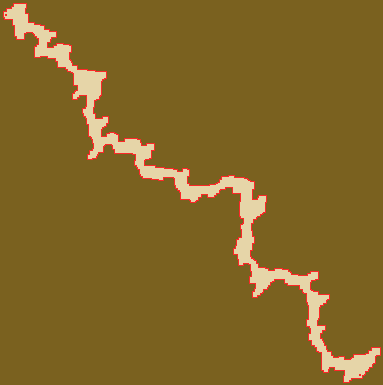
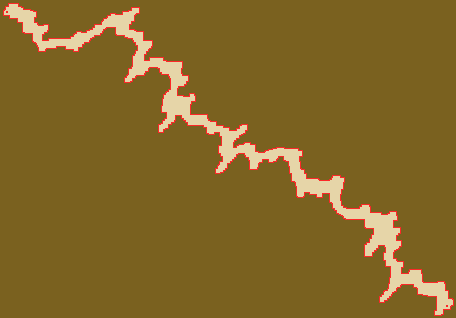
feat:splitt inner and outter polygons

Changed region(s): [[0.0, 0.0, 1.0, 1.0]]

diff --git a/src/area_gen/mod.rs b/src/area_gen/mod.rs
@@ -17,7 +17,7 @@ pub struct AreaGenerationOutput {
     pub height: u32,
     pub walkable_x: Vec<u32>,
     pub walkable_y: Vec<u32>,
-    pub oob_polygons: Vec<Vec<(f32, f32)>>,
+    pub oob_polygons: Vec<(Vec<(f32, f32)>, bool)>, // bool is true when outer oob shape, false when inner
 }
 
 pub fn generate_area(map_index: usize) -> AreaGenerationOutput {
@@ -45,7 +45,7 @@ pub fn generate_area(map_index: usize) -> AreaGenerationOutput {
     render_grid(&grid, map_name.clone() + "_outline", true);
     render_grid(&grid, map_name.clone(), false);
 
-    // Initiate module output
+    // Initiate module outputf
     let mut walkable_x = Vec::new();
     let mut walkable_y = Vec::new();
     for x in 0..grid.len() {
@@ -72,7 +72,7 @@ pub fn generate_area(map_index: usize) -> AreaGenerationOutput {
     }
 }
 
-fn find_oob_polygons(grid: &mut Grid) -> Vec<Vec<(f32, f32)>> {
+fn find_oob_polygons(grid: &mut Grid) -> Vec<(Vec<(f32, f32)>, bool)> {
     // Find a first point on the map contour
     let mut oob_polygons = Vec::new();
     let mut current_pos = (0, (grid[0].len() / 2) as i32);
@@ -82,7 +82,7 @@ fn find_oob_polygons(grid: &mut Grid) -> Vec<Vec<(f32, f32)>> {
     // Take a step
     current_pos.0 -= 1;
     // Generate polygone of the outside of the map
-    oob_polygons.push(find_oob_polygone(current_pos, grid));
+    oob_polygons.push((find_oob_polygone(current_pos, grid), true));
     // find inside map polygones
     // scan the grid and search for tiles that are not floor but next to floor, and not already scanned
     'outer: loop {
@@ -95,7 +95,7 @@ fn find_oob_polygons(grid: &mut Grid) -> Vec<Vec<(f32, f32)>> {
                         || grid[x][y + 1].tile_type == TileType::Floor
                         || grid[x][y - 1].tile_type == TileType::Floor)
                 {
-                    find_oob_polygone((x as i32, y as i32), grid);
+                    oob_polygons.push((find_oob_polygone((x as i32, y as i32), grid), false));
                     continue 'outer;
                 }
             }
